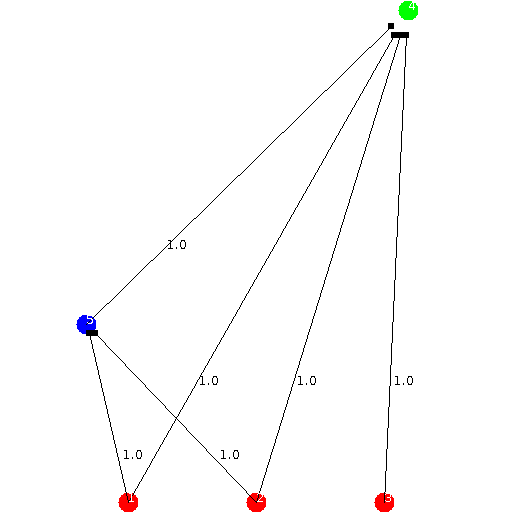
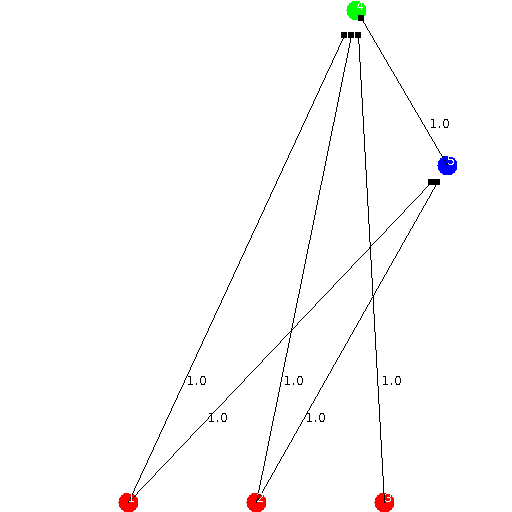
More Progress on NEAT

diff --git a/NEAT/src/neatsorce/Mutations.java b/NEAT/src/neatsorce/Mutations.java
@@ -1,46 +1,32 @@
 package neatsorce;
 
+import java.util.ArrayList;
 import java.util.HashMap;
+import java.util.List;
 import java.util.Map;
 import java.util.Random;
 
 import neatsorce.NodeGene.TYPE;
 
-public class Genome {
-	private Map<Integer, ConnectionGene> connections;
-	private Map<Integer, NodeGene> nodes;
-	private InnovationGenerator innovation;
+
+public class Mutations {
 	
-	public Genome() {
-		nodes = new HashMap<Integer, NodeGene>();
-		connections = new HashMap<Integer, ConnectionGene>();
-		innovation  = new InnovationGenerator();
-	}
-	
-	public Genome(InnovationGenerator i) {
-		nodes = new HashMap<Integer, NodeGene>();
-		connections = new HashMap<Integer, ConnectionGene>();
-		innovation  = i;
-	}
-	
-	public void addNodeGene(NodeGene gene) {
-		nodes.put(gene.getId(),gene);
-	}
-	public void addConnectionGene(ConnectionGene gene) {
-		connections.put(gene.getInnovation(),gene);
-	}
-	public Map<Integer, ConnectionGene> getConnectionGenes(){
-		return connections;
-	}
-	public Map<Integer, NodeGene> getNodeGenes(){
-		return nodes;
-	}
-	
-	public void addConnectionMutation(Random r) {
+	public void addConnectionMutationTest(Random r) {
 		//Finds a random node
-		//System.out.println("Times through:" + times );
 		NodeGene node1 = nodes.get(r.nextInt(nodes.size()));
+		Map<Integer, ConnectionGene> AllConnections = new HashMap<Integer, ConnectionGene>();
+		int track = 0;
+		for(ConnectionGene con: connections.values()) {
+			if(con.getInNode() == node1.getId() || con.getOutNode() == node1.getId()) {
+				AllConnections.put(track, con);
+			}
+		}
+		if (AllConnections.size() == nodes.size()) {
+			
+		}
+		//Finds another random node
 		NodeGene node2 = nodes.get(r.nextInt(nodes.size()));
+		int i = nodes.size();
 		float weight = r.nextFloat()*2f-1f;
 		boolean reversed = false;
 		//Tests to see if the connection should be reversed, so node 1 is the output while node 2 is input
@@ -66,13 +52,56 @@ public class Genome {
 			}
 		}
 		if(connectionExists) {
-			//times = times + 1;
-			//addConnectionMutation(r, times);
+			
 			return;
 		}
-		if(node1.getId() == node2.getId()) {
-			//times = times + 1;
-			//addConnectionMutation(r, times);
+		System.out.println("Connection between" + node1.getId() + "and" + node2.getId());
+		ConnectionGene newCon =	new ConnectionGene(reversed ? node2.getId() : node1.getId(), reversed ? node1.getId() : node2.getId(), weight,true, innovation.getInnovation());
+		connections.put(newCon.getInnovation(),newCon);
+	}
+	
+	public void addConnectionMutation(Random r) {
+		//Finds a random node
+		int k = r.nextInt(nodes.size());
+		System.out.println(k);
+		NodeGene node1 = nodes.get(k);
+		if(node1 == null) {
+			System.out.println("REEEEEE");
+		}
+		//Finds another random node
+		int q = r.nextInt(nodes.size());
+		System.out.println(q);
+		NodeGene node2 = nodes.get(q);
+		if(node2 == null) {
+			System.out.println("RAAAAAA");
+		}
+		int i = nodes.size();
+		float weight = r.nextFloat()*2f-1f;
+		boolean reversed = false;
+		//Tests to see if the connection should be reversed, so node 1 is the output while node 2 is input
+		if (node1.getType() == NodeGene.TYPE.HIDDEN && node2.getType() == NodeGene.TYPE.INPUT) {
+			reversed = true;
+		} else if (node1.getType() == NodeGene.TYPE.OUTPUT && node2.getType() == NodeGene.TYPE.HIDDEN) {
+			reversed = true;
+		} else if (node1.getType() == NodeGene.TYPE.OUTPUT && node2.getType() == NodeGene.TYPE.INPUT) {
+			reversed = true;
+		}
+		
+		boolean connectionExists = false;
+		for (ConnectionGene con : connections.values()) {
+			//If a connection where node1 is the innode and node2 is an outnode
+			if (con.getInNode() == node1.getId() && con.getOutNode() == node2.getId()) {
+				connectionExists = true;
+				break;
+			}
+			//If a connection where node2 is the innode and node1 is 
+			else if (con.getInNode() == node2.getId() && con.getOutNode() == node1.getId()) {
+				connectionExists = true;
+				break;
+			}
+		}
+		if(connectionExists) {
+			addConnectionMutation(r);
 			return;
 		}
 		ConnectionGene newCon =	new ConnectionGene(reversed ? node2.getId() : node1.getId(), reversed ? node1.getId() : node2.getId(), weight,true, innovation.getInnovation());
@@ -105,43 +134,4 @@ public class Genome {
 		connections.put(inToNew.getInnovation(),inToNew);
 		connections.put(newToOut.getInnovation(),newToOut);
 	}
-	
-	/**
-	 * Performs the change weight mutation where it changes a random connection's weight
-	 * @param random
-	 */
-	public void changeWeight(Random random) {
-		//Gets a random connection between two nodes
-		ConnectionGene con = connections.get(random.nextInt(connections.size()));
-		con.setWeight(random.nextFloat());
-	}
-	/**
-	 * Performs a cossover between two networks
-	 * @param parent1
-	 * @param parent2
-	 * @param r
-	 * @return
-	 */
-	public static Genome crossover(Genome parent1, Genome parent2, Random r) {
-		Genome child = new Genome();
-		
-		for (NodeGene parent1Node : parent1.getNodeGenes().values()) {
-			child.addNodeGene(parent1Node.copy());
-		}
-		
-		for (ConnectionGene parent1Node: parent1.getConnectionGenes().values()) {
-			if(parent2.getConnectionGenes().containsKey(parent1Node.getInnovation())) {
-				ConnectionGene childConGene = r.nextBoolean() ? parent1Node.copy() : parent2.getConnectionGenes().get(parent1Node.getInnovation()).copy();
-				child.addConnectionGene(childConGene);
-			}else {
-				ConnectionGene childConGene = parent1Node.copy();
-				child.addConnectionGene(childConGene);
-			}
-		}
-		
-		return child;
-	}
-
 }
-	
-

diff --git a/NEAT/src/test/TestNEAT.java b/NEAT/src/test/TestNEAT.java
@@ -8,6 +8,7 @@ import org.junit.jupiter.api.Test;
 
 import neatsorce.ConnectionGene;
 import neatsorce.Genome;
+import neatsorce.InnovationGenerator;
 import neatsorce.NodeGene;
 import neatsorce.NodeGene.TYPE;
 
@@ -15,22 +16,28 @@ class TestNEAT {
 
 	@Test
 	void test() {
-				roject 
-				GenomePrinter printer = new GenomePrinter();
-				Genome parent1 = new Genome();
-				for(int i = 0; i < 3; i++){
-					NodeGene node = new NodeGene(TYPE.INPUT, i + 1);
-					parent1.addNodeGene(node);
-				}
-				Random r = new Random();
-				parent1.addNodeGene(new NodeGene(TYPE.OUTPUT, 4));
-				parent1.addConnectionGene(new ConnectionGene(1,4,r.nextFloat(),true,1));
-				parent1.addConnectionGene(new ConnectionGene(2,4,r.nextFloat(),true,2));
-				parent1.addConnectionGene(new ConnectionGene(3,4,r.nextFloat(),true,3));
-				GenomePrinter.printGenome(parent1, "output/TestNeuralNetwork.png");
-
-				Genome addNode = TestMutation.testMutation(parent1);
-				GenomePrinter.printGenome(addNode, "output/TestMutation.png");
+		for(int j = 0; j < 1000; j++) {
+		InnovationGenerator innovation = new InnovationGenerator(0);
+		GenomePrinter printer = new GenomePrinter();
+		Genome parent1 = new Genome(innovation);
+		for(int i = 0; i < 3; i++){
+			NodeGene node = new NodeGene(TYPE.INPUT, i + 1);
+			parent1.addNodeGene(node);
 		}
+		Random r = new Random();
+		parent1.addNodeGene(new NodeGene(TYPE.OUTPUT, 4));
+		parent1.addConnectionGene(new ConnectionGene(1,4,r.nextFloat(),true,innovation.getInnovation()));
+		parent1.addConnectionGene(new ConnectionGene(2,4,r.nextFloat(),true,innovation.getInnovation()));
+		parent1.addConnectionGene(new ConnectionGene(3,4,r.nextFloat(),true,innovation.getInnovation()));
+		GenomePrinter.printGenome(parent1, "output/TestNeuralNetwork.png");
 
+		
+			Genome addNode = TestMutation.testAddNode(parent1);
+			GenomePrinter.printGenome(addNode, "output/TestMutation.png");
+
+		
+		  Genome changeWeight = TestMutation.testChangeWeight(addNode);
+		  GenomePrinter.printGenome(changeWeight, "output/TestWeight.png");
+		}
+	}
 }

diff --git a/NEAT/src/test/TestGenomeGen.java b/NEAT/src/test/TestGenomeGen.java
@@ -4,26 +4,38 @@ import java.util.Random;
 
 import neatsorce.ConnectionGene;
 import neatsorce.Genome;
+import neatsorce.InnovationGenerator;
 import neatsorce.NodeGene;
 import neatsorce.NodeGene.TYPE;
 
 public class TestGenomeGen {
 	public static void main(String[] args) {
-		
+		for(int j = 0; j < 1; j++) {
+		InnovationGenerator innovation = new InnovationGenerator();
 		GenomePrinter printer = new GenomePrinter();
-		Genome parent1 = new Genome();
+		Genome parent1 = new Genome(innovation);
 		for(int i = 0; i < 3; i++){
-			NodeGene node = new NodeGene(TYPE.INPUT, i + 1);
+			NodeGene node = new NodeGene(TYPE.INPUT, i);
 			parent1.addNodeGene(node);
 		}
 		Random r = new Random();
-		parent1.addNodeGene(new NodeGene(TYPE.OUTPUT, 4));
-		parent1.addConnectionGene(new ConnectionGene(1,4,r.nextFloat(),true,1));
-		parent1.addConnectionGene(new ConnectionGene(2,4,r.nextFloat(),true,2));
-		parent1.addConnectionGene(new ConnectionGene(3,4,r.nextFloat(),true,3));
+		parent1.addNodeGene(new NodeGene(TYPE.OUTPUT, 3));
+		parent1.addConnectionGene(new ConnectionGene(0,3,r.nextFloat(),true,innovation.getInnovation()));
+		parent1.addConnectionGene(new ConnectionGene(1,3,r.nextFloat(),true,innovation.getInnovation()));
+		parent1.addConnectionGene(new ConnectionGene(2,3,r.nextFloat(),true,innovation.getInnovation()));
 		GenomePrinter.printGenome(parent1, "output/TestNeuralNetwork.png");
 
-		Genome addNode = TestMutation.testMutation(parent1);
+		
+		Genome addNode = TestMutation.testAddNode(parent1);
 		GenomePrinter.printGenome(addNode, "output/TestMutation.png");
+
+		
+		Genome changeWeight = TestMutation.testChangeWeight(addNode);
+		GenomePrinter.printGenome(changeWeight, "output/TestWeight.png");
+		
+		
+		Genome addConnection = TestMutation.testAddConnection(parent1);
+	    GenomePrinter.printGenome(addConnection, "output/TestConn.png");
+		}
 	}
 }

diff --git a/NEAT/src/test/TestMutation.java b/NEAT/src/test/TestMutation.java
@@ -4,36 +4,23 @@ import java.util.Random;
 
 import neatsorce.ConnectionGene;
 import neatsorce.Genome;
+import neatsorce.InnovationGenerator;
 import neatsorce.NodeGene;
 import neatsorce.NodeGene.TYPE;
 
 public class TestMutation {
-	public static void main(String[] args) {
-		
-		GenomePrinter printer = new GenomePrinter();
-		Genome parent1 = new Genome();
-		for(int i = 0; i < 3; i++){
-			NodeGene node = new NodeGene(TYPE.INPUT, i + 1);
-			parent1.addNodeGene(node);
-		}
-		parent1.addNodeGene(new NodeGene(TYPE.OUTPUT, 4));
-		parent1.addNodeGene(new NodeGene(TYPE.HIDDEN, 5));
-		parent1.addConnectionGene(new ConnectionGene(1,4,1f,true,1));
-		parent1.addConnectionGene(new ConnectionGene(2,4,1f,true,2));
-		parent1.addConnectionGene(new ConnectionGene(3,4,1f,true,3));
-		parent1.addConnectionGene(new ConnectionGene(2,5,1f,true,4));
-		parent1.addConnectionGene(new ConnectionGene(5,4,1f,true,5));
-		parent1.addConnectionGene(new ConnectionGene(1,5,1f,true,8));
-		GenomePrinter.printGenome(parent1, "output/premutation.png");
-		parent1.addNodeMutation(new Random());
-
-		
-		GenomePrinter.printGenome(parent1, "output/postmutation.png");
-		
-		
-	}
-	public static Genome testMutation(Genome parent1) {
+	public static Genome testAddNode(Genome parent1) {
 		parent1.addNodeMutation(new Random());
 		return parent1;
+	}
+	
+	public static Genome testChangeWeight(Genome parent) {
+		parent.changeWeight(new Random());
+		return parent;
+	}
+
+	public static Genome testAddConnection(Genome parent) {
+		parent.addConnectionMutation(new Random());
+		return parent;
 	}
 }

diff --git a/NEAT/src/test/TestCrossover.java b/NEAT/src/test/TestCrossover.java
@@ -4,13 +4,15 @@ import java.util.Random;
 
 import neatsorce.ConnectionGene;
 import neatsorce.Genome;
+import neatsorce.InnovationGenerator;
 import neatsorce.NodeGene;
 import neatsorce.NodeGene.TYPE;
 
 public class TestCrossover {
 	public static void main(String[] args) {
+		InnovationGenerator innovation = new InnovationGenerator();
 		GenomePrinter printer = new GenomePrinter();
-		Genome parent1 = new Genome();
+		Genome parent1 = new Genome(innovation);
 		for(int i = 0; i < 3; i++){
 			NodeGene node = new NodeGene(TYPE.INPUT, i + 1);
 			parent1.addNodeGene(node);
@@ -23,8 +25,8 @@ public class TestCrossover {
 		parent1.addConnectionGene(new ConnectionGene(2,5,1f,true,4));
 		parent1.addConnectionGene(new ConnectionGene(5,4,1f,true,5));
 		parent1.addConnectionGene(new ConnectionGene(1,5,1f,true,8));
-		
-		Genome parent2 = new Genome();
+	    innovation = new InnovationGenerator();
+		Genome parent2 = new Genome(innovation);
 		for (int i = 0; i < 3; i++)
 		{
 			NodeGene node = new NodeGene(TYPE.INPUT, i+1);

diff --git a/NEAT/src/neatsorce/InnovationGenerator.java b/NEAT/src/neatsorce/InnovationGenerator.java
@@ -2,7 +2,9 @@ package neatsorce;
 
 public class InnovationGenerator {
 	
-		private int currentInnovation = 0;
+	private int currentInnovation = 0;
+	
+	
 	public int getInnovation() {
 		return currentInnovation++;
 	}
